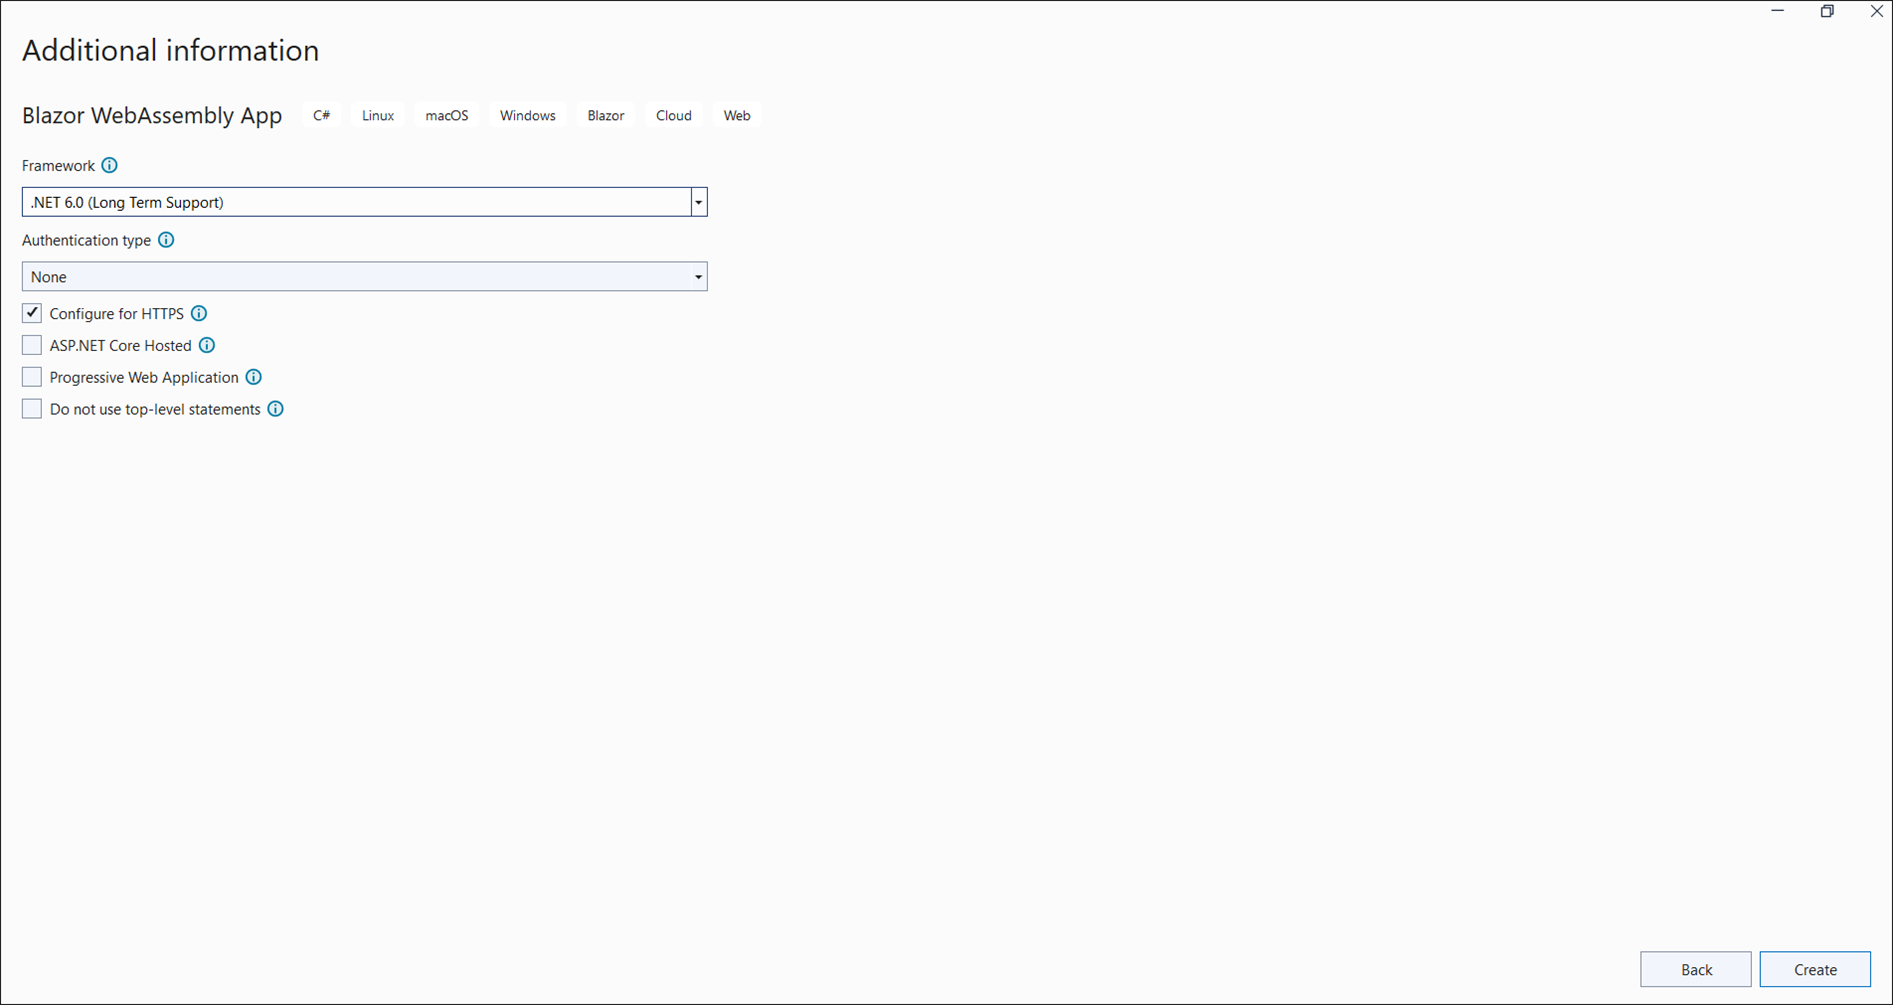
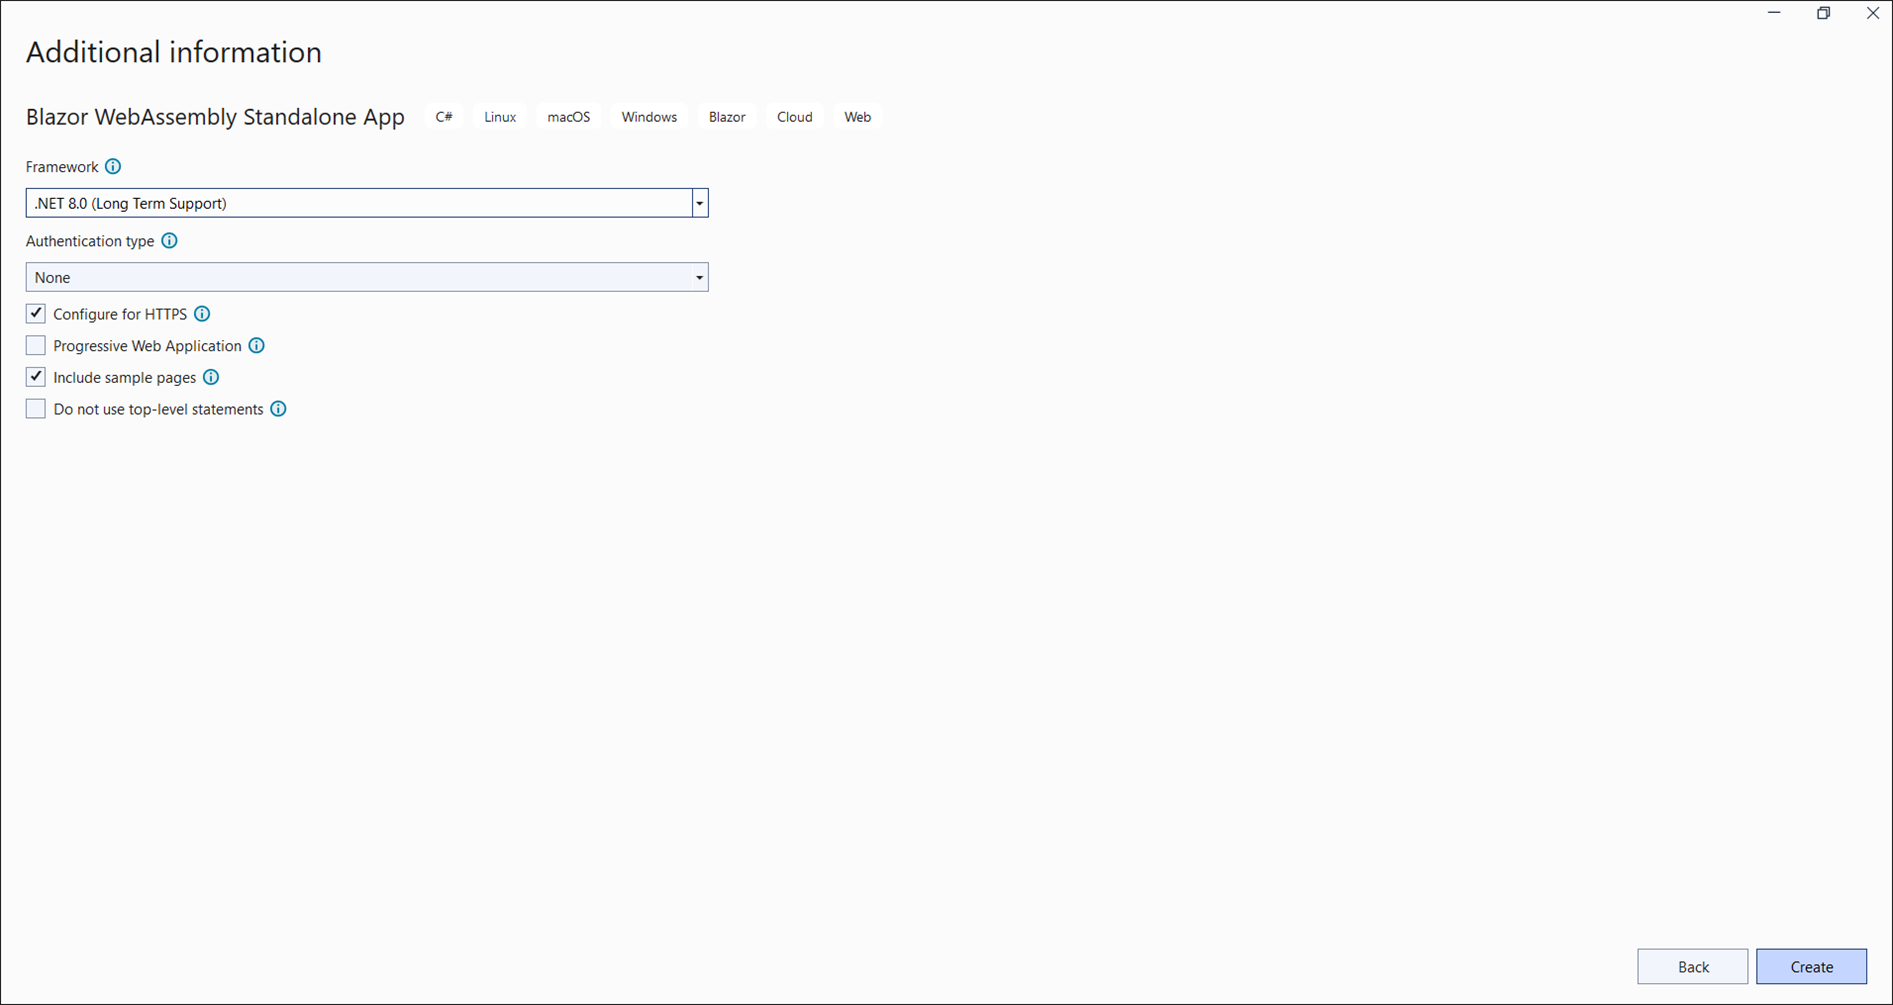
898690-blazor-net8.0

diff --git a/Document-Processing/Excel/Excel-Library/NET/Create-read-edit-excel-files-in-blazor-c-sharp.md b/Document-Processing/Excel/Excel-Library/NET/Create-read-edit-excel-files-in-blazor-c-sharp.md
@@ -752,9 +752,9 @@ An online sample link to [create an Excel document](https://blazor.syncfusion.co
 
 ## Convert Excel to Image in Blazor Client-Side application
 
-1. Create a new C# Blazor Client-Side project with target framework as .NET 6.0 by referring [link](https://help.syncfusion.com/document-processing/excel/excel-library/net/create-read-edit-excel-files-in-blazor-c-sharp#create-a-simple-excel-report-in-blazor-client-side-application)
+1. Create a new C# Blazor Client-Side project with target framework as .NET 8.0 by referring [link](https://help.syncfusion.com/document-processing/excel/excel-library/net/create-read-edit-excel-files-in-blazor-c-sharp#create-a-simple-excel-report-in-blazor-client-side-application)
 
-2. Install the [SkiaSharp.NativeAssets.WebAssembly](https://www.nuget.org/packages/SkiaSharp.NativeAssets.WebAssembly) along with [Syncfusion.XlsIORenderer.Net.Core](https://www.nuget.org/packages/Syncfusion.XlsIORenderer.Net.Core) from nuget.org.
+2. Install the [SkiaSharp.Views.Blazor](https://www.nuget.org/packages/SkiaSharp.views.Blazor) along with [Syncfusion.XlsIORenderer.Net.Core](https://www.nuget.org/packages/Syncfusion.XlsIORenderer.Net.Core) from nuget.org.
 
 3. Add below tag in your Blazor WASM csproj file.
 
@@ -812,9 +812,9 @@ A complete working example of how to convert an Excel worksheet to image in Blaz
 
 ## Convert Excel to PDF in Blazor Client-Side application
 
-1. Create a new C# Blazor Client-Side project with target framework as .NET 6.0 by referring [link](https://help.syncfusion.com/document-processing/excel/excel-library/net/create-read-edit-excel-files-in-blazor-c-sharp#create-a-simple-excel-report-in-blazor-client-side-application)
+1. Create a new C# Blazor Client-Side project with target framework as .NET 8.0 by referring [link](https://help.syncfusion.com/document-processing/excel/excel-library/net/create-read-edit-excel-files-in-blazor-c-sharp#create-a-simple-excel-report-in-blazor-client-side-application)
 
-2. Install the [SkiaSharp.NativeAssets.WebAssembly](https://www.nuget.org/packages/SkiaSharp.NativeAssets.WebAssembly) along with [Syncfusion.XlsIORenderer.Net.Core](https://www.nuget.org/packages/Syncfusion.XlsIORenderer.Net.Core) from nuget.org.
+2. Install the [SkiaSharp.Views.Blazor](https://www.nuget.org/packages/SkiaSharp.views.Blazor) along with [Syncfusion.XlsIORenderer.Net.Core](https://www.nuget.org/packages/Syncfusion.XlsIORenderer.Net.Core) from nuget.org.
 
 3. Add below tag in your Blazor WASM csproj file.
 

diff --git a/Document-Processing/Excel/Conversions/Excel-to-PDF/NET/convert-excel-to-pdf-in-blazor.md b/Document-Processing/Excel/Conversions/Excel-to-PDF/NET/convert-excel-to-pdf-in-blazor.md
@@ -186,7 +186,7 @@ Step 3: Select the framework and click **Create** button.
 
 Step 4: Install the following **Nuget packages** in your application from [NuGet.org](https://www.nuget.org/).
 * [Syncfusion.XlsIORenderer.Net.Core](https://www.nuget.org/packages/Syncfusion.XlsIORenderer.Net.Core)
-* [SkiaSharp.NativeAssets.WebAssembly](https://www.nuget.org/packages/SkiaSharp.NativeAssets.WebAssembly)
+* [SkiaSharp.Views.Blazor](https://www.nuget.org/packages/SkiaSharp.views.Blazor)
 
 ![Install Syncfusion.XlsIORenderer.Net.Core NuGet Package](Blazor_images\Blazor_images_Client_Nuget1.png)
 ![Install SkiaSharp.NativeAssets.WebAssembly NuGet Package](Blazor_images\Blazor_images_Client_Nuget2.png)
